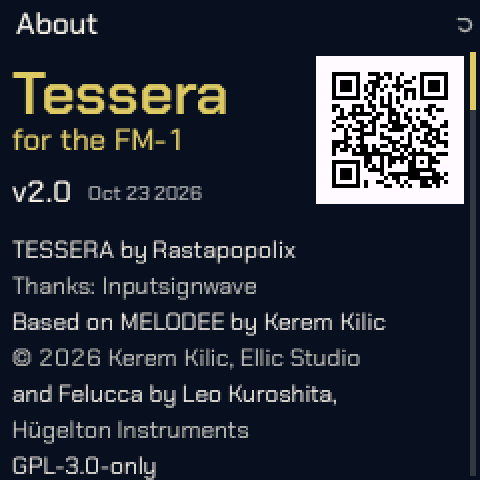
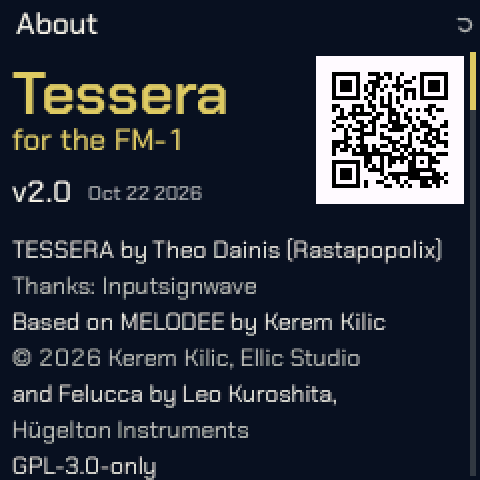
Credit Tessera to Theo Dainis (Rastapopolix)
The ABOUT page, README, project page, installer and simulator name the
author as "Theo Dainis (Rastapopolix)"; LICENSING.md gets the Tessera
copyright line (Theo Dainis), next to Melodee's and Felucca's.

Claude-Session: https://claude.ai/code/session_01RcXuxZpjKb7faRxcgPsn9r

Changed region(s): [[0.3125, 0.5, 0.9375, 0.5625], [0.2812, 0.375, 0.3125, 0.4375]]

diff --git a/web/index_pkg.html b/web/index_pkg.html
@@ -76,7 +76,7 @@
   <p id="status"></p>
   <pre id="log"></pre>
   <p><a href="../editor/" style="color:inherit" data-t="editor"></a></p>
-  <p class="small">Tessera is firmware for the FM-1 by Theo Dainis, a fork of Melodee: it adds the Tessera generators and a project format of its own. <a href="https://github.com/Rastapopolix/melodee-tess" target="_blank" rel="noopener" style="color:inherit">github.com/Rastapopolix/melodee-tess</a><br>
+  <p class="small">Tessera is firmware for the FM-1 by Theo Dainis (Rastapopolix), a fork of Melodee: it adds the Tessera generators and a project format of its own. <a href="https://github.com/Rastapopolix/melodee-tess" target="_blank" rel="noopener" style="color:inherit">github.com/Rastapopolix/melodee-tess</a><br>
     Melodee by Ellic Studio, based on <a href="https://github.com/hugelton/Felucca" target="_blank" rel="noopener" style="color:inherit">Felucca</a>
     by Leo Kuroshita (@kurogedelic), <a href="https://hugelton.com" target="_blank" rel="noopener" style="color:inherit">Hügelton Instruments</a>, with its CrispyZebra waveforms and Fukiai icons (MIT).<br>
     Font: Inter Tight (The Inter Project Authors, SIL OFL 1.1). Samples: Versilian Studios VSCO-2 Community Edition and VCSL (CC0 1.0).<br>

diff --git a/web/sim/index.html b/web/sim/index.html
@@ -136,7 +136,7 @@ footer small { font-size: 11px; opacity: .8; }
 
 <footer>
   <small class="version">melodee-tess, Melodee @BASE@ base · the simulator keeps no saves</small><br>
-  melodee-tess by Theo Dainis, a fork of <a href="https://github.com/keremimo/melodee" target="_blank" rel="noopener">Melodee</a> by keremimo,
+  Tessera by Theo Dainis (Rastapopolix), a fork of <a href="https://github.com/keremimo/melodee" target="_blank" rel="noopener">Melodee</a> by keremimo,
   built on <a href="https://github.com/hugelton/Felucca" target="_blank" rel="noopener">Felucca</a> by Leo Kuroshita, Hügelton Instruments ·
   <a href="https://www.gnu.org/licenses/gpl-3.0.html" target="_blank" rel="noopener">GPL-3.0</a> · this page is Felucca's, after charlesvestal's
   <a href="https://github.com/charlesvestal/fm1-x0x" target="_blank" rel="noopener">X0X</a> · DotGothic16 font, SIL OFL 1.1<br>

diff --git a/web/home/index.html b/web/home/index.html
@@ -286,7 +286,7 @@ footer p { max-width: 52em; }
 
 <footer>
   <div class="wrap">
-    <p>Tessera grew out of Melodee (Tess), a fork of <a href="https://github.com/keremimo/melodee">Melodee</a> by keremimo,
+    <p>Tessera is by Theo Dainis (Rastapopolix). It grew out of Melodee (Tess), a fork of <a href="https://github.com/keremimo/melodee">Melodee</a> by keremimo,
       itself built on Felucca by Leo Kuroshita / Hügelton Instruments. ATLAS uses the drum map of Grids by
       Émilie Gillet / Mutable Instruments; FALL, CONSTELLATION, QUAD, AWAKE and SERIES are inspired by the norns
       scripts Fall (ambalek), Constellation (timothy-taylor), initenere, Awake (tehn) and nørgård; TIDE and SWARM are inspired

diff --git a/firmware/src/ui_menu.c b/firmware/src/ui_menu.c
@@ -82,7 +82,7 @@ enum { MC_TEXT, MC_TITLE, MC_URL };
 typedef struct { const char *text; uint8_t kind; } menu_credit_t;
 static const menu_credit_t MENU_CREDITS[] = {
     {"TESSERA / THIS FIRMWARE", MC_TITLE},
-    {"Tessera by Rastapopolix (Theo Dainis): the generators, engines and project format; a fork of Melodee / GPL-3.0", MC_TEXT},
+    {"Tessera by Theo Dainis (Rastapopolix): the generators, engines and project format; a fork of Melodee / GPL-3.0", MC_TEXT},
     {"Thanks: Inputsignwave", MC_TEXT},
     {"A tessera is the small tile of a mosaic: short phrases set side by side into a larger form", MC_TEXT},
     {"https://github.com/Rastapopolix/melodee-tess", MC_URL},
@@ -184,7 +184,7 @@ static int32_t menu_document(int32_t y, int draw)
         x = cv_text(6, y + 62, &AF_M, MELODEE_VERSION, T_TEXT);
         cv_text(x + 8, y + 67, &AF_X, __DATE__, T_MID);
         draw_about_qr(158, y + 4);
-        cv_text(6, y + 94, &AF_S, "TESSERA by Rastapopolix", T_TEXT);
+        cv_text(6, y + 94, &AF_S, "TESSERA by Theo Dainis (Rastapopolix)", T_TEXT);
         cv_text(6, y + 112, &AF_S, "Thanks: Inputsignwave", T_SEC);
         cv_text(6, y + 130, &AF_S, "Based on MELODEE by Kerem Kilic", T_TEXT);
         cv_text(6, y + 148, &AF_S, "\xA9 2026 Kerem Kilic, Ellic Studio", T_SEC);

diff --git a/README.md b/README.md
@@ -12,6 +12,7 @@
 **Tessera** is a generative firmware for the M-Vave FM-1. Each of the four tracks can play its own steps, an
 arpeggio, or one of twelve generators, and the pages around them evolve the phrases, build song forms, pass hits
 between tracks and modulate anything from anything. GPL-3.0-only. **Status: Experimental.**
+By **Theo Dainis** ([Rastapopolix](https://github.com/Rastapopolix)).
 
 Tessera grew out of Melodee (Tess), a fork of [Melodee](https://github.com/keremimo/melodee) by **keremimo**,
 itself built on *Felucca* by **Leo Kuroshita / Hügelton Instruments**. Releases up to 1.3.x were published as
@@ -114,7 +115,7 @@ See [BUILDING.md](BUILDING.md). The host tests run with `tests/run_tests.sh`; th
 
 ## Credits and licence
 
-GPL-3.0-only, inherited from Melodee. Original copyright and SPDX headers are preserved. Melodee is by keremimo,
+Tessera is by **Theo Dainis (Rastapopolix)**. GPL-3.0-only, inherited from Melodee. Original copyright and SPDX headers are preserved. Melodee is by keremimo,
 Felucca by Leo Kuroshita / Hügelton Instruments.
 
 The ATLAS generator uses the drum map of **Grids** by Émilie Gillet / Mutable Instruments. Several generators are

diff --git a/LICENSING.md b/LICENSING.md
@@ -9,7 +9,8 @@ bundled or ported parts keep their own licences; they are listed below, and thei
 texts are in `LICENSES/`.
 
 Melodee code and modifications: Copyright (C) 2026 Kerem Kilic (Ellic Studio)\
-Retained Felucca portions: Copyright (C) 2026 Leo Kuroshita (@kurogedelic), Hügelton Instruments
+Retained Felucca portions: Copyright (C) 2026 Leo Kuroshita (@kurogedelic), Hügelton Instruments\
+Tessera code and modifications (melodee-tess): Copyright (C) 2026 Theo Dainis
 
 Copyright notices follow the code's actual origin. Independently written Melodee files
 credit Kerem Kilic; mixed files also identify the retained Felucca portions. Unchanged
